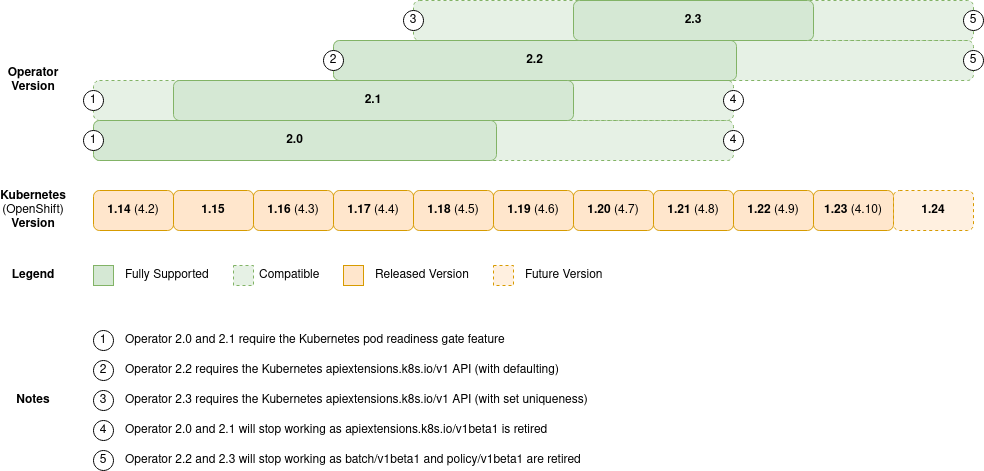
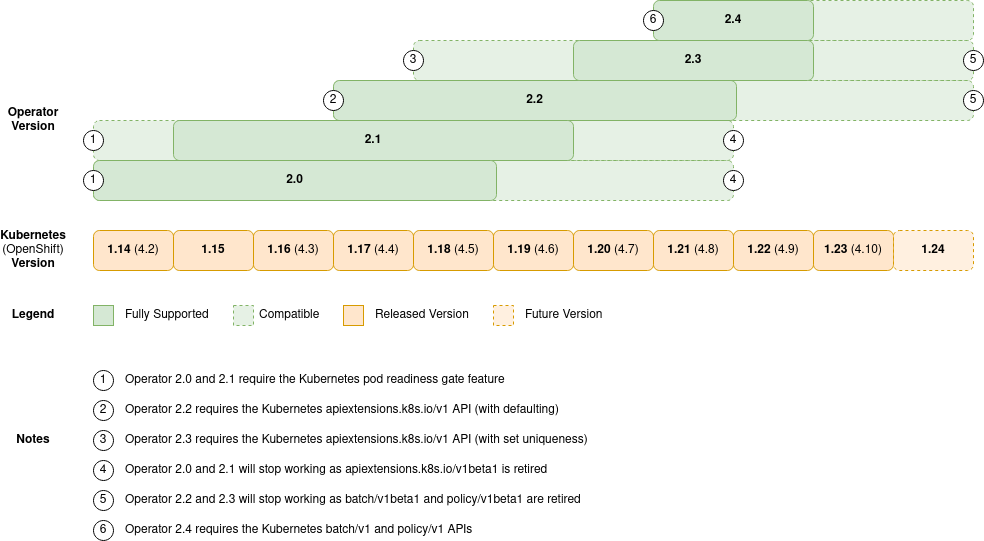
K8S-2233: Slay v1beta1
THis will stop working in 1.25 (like 1 release away), so we need to cull
off older, pre-1.21, versions.

diff --git a/pkg/cluster/backup.go b/pkg/cluster/backup.go
@@ -14,7 +14,6 @@ import (
 	"github.com/couchbase/couchbase-operator/pkg/util/k8sutil"
 
 	batchv1 "k8s.io/api/batch/v1"
-	batchv1beta1 "k8s.io/api/batch/v1beta1"
 	corev1 "k8s.io/api/core/v1"
 	"k8s.io/apimachinery/pkg/api/resource"
 	metav1 "k8s.io/apimachinery/pkg/apis/meta/v1"
@@ -39,10 +38,10 @@ type backupResources struct {
 	backup *couchbasev2.CouchbaseBackup
 
 	// fullCronJob deals with running and scheduling a full backup.
-	fullCronJob *batchv1beta1.CronJob
+	fullCronJob *batchv1.CronJob
 
 	// incrementalCronJob (optional) deals with running and schedling an incremental backup.
-	incrementalCronJob *batchv1beta1.CronJob
+	incrementalCronJob *batchv1.CronJob
 
 	// pvc deals with persisting the backup data.
 	pvc *corev1.PersistentVolumeClaim
@@ -192,12 +191,12 @@ func (c *Cluster) createBackupResource(resource backupResources) error {
 		}
 	}
 
-	if _, err := c.k8s.KubeClient.BatchV1beta1().CronJobs(c.cluster.Namespace).Create(context.Background(), resource.fullCronJob, metav1.CreateOptions{}); err != nil {
+	if _, err := c.k8s.KubeClient.BatchV1().CronJobs(c.cluster.Namespace).Create(context.Background(), resource.fullCronJob, metav1.CreateOptions{}); err != nil {
 		return err
 	}
 
 	if resource.incrementalCronJob != nil {
-		if _, err := c.k8s.KubeClient.BatchV1beta1().CronJobs(c.cluster.Namespace).Create(context.Background(), resource.incrementalCronJob, metav1.CreateOptions{}); err != nil {
+		if _, err := c.k8s.KubeClient.BatchV1().CronJobs(c.cluster.Namespace).Create(context.Background(), resource.incrementalCronJob, metav1.CreateOptions{}); err != nil {
 			return err
 		}
 	}
@@ -257,13 +256,13 @@ func (c *Cluster) updateBackupResource(requested backupResources, current *backu
 
 // updateBackupCronJob recreates jobs if they have been deleted, deletes them if they need
 // to be e.g. switching from incremental to full, or modifies the configuration.
-func (c *Cluster) updateBackupCronJob(notifier *backupUpdateNotifier, requested, current *batchv1beta1.CronJob) error {
+func (c *Cluster) updateBackupCronJob(notifier *backupUpdateNotifier, requested, current *batchv1.CronJob) error {
 	if requested == nil && current == nil {
 		return nil
 	}
 
 	if requested != nil && current == nil {
-		if _, err := c.k8s.KubeClient.BatchV1beta1().CronJobs(c.cluster.Namespace).Create(context.Background(), requested, metav1.CreateOptions{}); err != nil {
+		if _, err := c.k8s.KubeClient.BatchV1().CronJobs(c.cluster.Namespace).Create(context.Background(), requested, metav1.CreateOptions{}); err != nil {
 			return err
 		}
 
@@ -273,7 +272,7 @@ func (c *Cluster) updateBackupCronJob(notifier *backupUpdateNotifier, requested,
 	}
 
 	if requested == nil && current != nil {
-		if err := c.k8s.KubeClient.BatchV1beta1().CronJobs(c.cluster.Namespace).Delete(context.Background(), current.Name, metav1.DeleteOptions{}); err != nil {
+		if err := c.k8s.KubeClient.BatchV1().CronJobs(c.cluster.Namespace).Delete(context.Background(), current.Name, metav1.DeleteOptions{}); err != nil {
 			return err
 		}
 
@@ -282,13 +281,13 @@ func (c *Cluster) updateBackupCronJob(notifier *backupUpdateNotifier, requested,
 		return nil
 	}
 
-	requestedSpec := &batchv1beta1.CronJobSpec{}
+	requestedSpec := &batchv1.CronJobSpec{}
 
 	if err := json.Unmarshal([]byte(requested.Annotations[constants.CronjobSpecAnnotation]), requestedSpec); err != nil {
 		return err
 	}
 
-	currentSpec := &batchv1beta1.CronJobSpec{}
+	currentSpec := &batchv1.CronJobSpec{}
 
 	if err := json.Unmarshal([]byte(current.Annotations[constants.CronjobSpecAnnotation]), currentSpec); err != nil {
 		return err
@@ -302,7 +301,7 @@ func (c *Cluster) updateBackupCronJob(notifier *backupUpdateNotifier, requested,
 	resource.Annotations = requested.Annotations
 	resource.Spec = requested.Spec
 
-	if _, err := c.k8s.KubeClient.BatchV1beta1().CronJobs(c.cluster.Namespace).Update(context.Background(), resource, metav1.UpdateOptions{}); err != nil {
+	if _, err := c.k8s.KubeClient.BatchV1().CronJobs(c.cluster.Namespace).Update(context.Background(), resource, metav1.UpdateOptions{}); err != nil {
 		return err
 	}
 
@@ -402,13 +401,13 @@ func (c *Cluster) updateBackupPVC(notifier *backupUpdateNotifier, backup *couchb
 // use the shared informer to raise it for us (if we are online at the time).
 func (c *Cluster) deleteBackupResource(resource backupResources) error {
 	if resource.fullCronJob != nil {
-		if err := c.k8s.KubeClient.BatchV1beta1().CronJobs(c.cluster.Namespace).Delete(context.Background(), resource.fullCronJob.Name, metav1.DeleteOptions{}); err != nil {
+		if err := c.k8s.KubeClient.BatchV1().CronJobs(c.cluster.Namespace).Delete(context.Background(), resource.fullCronJob.Name, metav1.DeleteOptions{}); err != nil {
 			return err
 		}
 	}
 
 	if resource.incrementalCronJob != nil {
-		if err := c.k8s.KubeClient.BatchV1beta1().CronJobs(c.cluster.Namespace).Delete(context.Background(), resource.incrementalCronJob.Name, metav1.DeleteOptions{}); err != nil {
+		if err := c.k8s.KubeClient.BatchV1().CronJobs(c.cluster.Namespace).Delete(context.Background(), resource.incrementalCronJob.Name, metav1.DeleteOptions{}); err != nil {
 			return err
 		}
 	}
@@ -495,7 +494,7 @@ func applyTLSConfiguration(cluster *couchbasev2.CouchbaseCluster, job *batchv1.J
 }
 
 // generateBackupCronjob generates a backup cronjob taking into account the backup strategy and the cbbackupmgr action.
-func (c *Cluster) generateBackupCronjob(backup *couchbasev2.CouchbaseBackup, action CBBackupmgrAction) (*batchv1beta1.CronJob, error) {
+func (c *Cluster) generateBackupCronjob(backup *couchbasev2.CouchbaseBackup, action CBBackupmgrAction) (*batchv1.CronJob, error) {
 	var schedule string
 
 	var container corev1.Container
@@ -518,7 +517,7 @@ func (c *Cluster) generateBackupCronjob(backup *couchbasev2.CouchbaseBackup, act
 	labels := k8sutil.LabelsForCluster(c.cluster)
 	labels[constants.LabelBackup] = backup.Name
 
-	cronjob := &batchv1beta1.CronJob{
+	cronjob := &batchv1.CronJob{
 		ObjectMeta: metav1.ObjectMeta{
 			Name:   backup.Name + "-" + string(action),
 			Labels: labels,
@@ -526,12 +525,12 @@ func (c *Cluster) generateBackupCronjob(backup *couchbasev2.CouchbaseBackup, act
 				c.cluster.AsOwner(),
 			},
 		},
-		Spec: batchv1beta1.CronJobSpec{
+		Spec: batchv1.CronJobSpec{
 			Schedule:                   schedule,
 			SuccessfulJobsHistoryLimit: &backup.Spec.SuccessfulJobsHistoryLimit,
 			FailedJobsHistoryLimit:     &backup.Spec.FailedJobsHistoryLimit,
-			ConcurrencyPolicy:          batchv1beta1.ForbidConcurrent,
-			JobTemplate: batchv1beta1.JobTemplateSpec{
+			ConcurrencyPolicy:          batchv1.ForbidConcurrent,
+			JobTemplate: batchv1.JobTemplateSpec{
 				Spec: batchv1.JobSpec{
 					BackoffLimit: &backup.Spec.BackoffLimit,
 					Template: corev1.PodTemplateSpec{
@@ -920,7 +919,7 @@ func (c *Cluster) applyObjEndpointCertToJob(job *batchv1.Job) {
 	}
 }
 
-func (c *Cluster) applyObjEndpointCertToCronJob(cronjob *batchv1beta1.CronJob) {
+func (c *Cluster) applyObjEndpointCertToCronJob(cronjob *batchv1.CronJob) {
 	if c.cluster.Spec.Backup.ObjectEndpoint == nil {
 		return
 	}

diff --git a/pkg/client/cache.go b/pkg/client/cache.go
@@ -10,9 +10,8 @@ import (
 	couchbaseclientv2 "github.com/couchbase/couchbase-operator/pkg/generated/clientset/versioned"
 	"github.com/couchbase/couchbase-operator/pkg/util/retryutil"
 	batchv1 "k8s.io/api/batch/v1"
-	batchv1beta1 "k8s.io/api/batch/v1beta1"
 	corev1 "k8s.io/api/core/v1"
-	policyv1beta1 "k8s.io/api/policy/v1beta1"
+	policyv1 "k8s.io/api/policy/v1"
 	metav1 "k8s.io/apimachinery/pkg/apis/meta/v1"
 	"k8s.io/apimachinery/pkg/labels"
 	"k8s.io/apimachinery/pkg/runtime"
@@ -284,7 +283,7 @@ type PodDisruptionBudgetCache struct {
 
 // newPodDisruptionBudgetCache creates a new synchronized cache for PodDisruptionBudget resources.
 func newPodDisruptionBudgetCache(ctx context.Context, client kubernetes.Interface, namespace string, selector fmt.Stringer) (*PodDisruptionBudgetCache, error) {
-	resourceCache, err := newResourceCache(ctx, client.PolicyV1beta1().RESTClient(), &policyv1beta1.PodDisruptionBudget{}, selector, "poddisruptionbudgets", namespace)
+	resourceCache, err := newResourceCache(ctx, client.PolicyV1().RESTClient(), &policyv1.PodDisruptionBudget{}, selector, "poddisruptionbudgets", namespace)
 	if err != nil {
 		return nil, err
 	}
@@ -296,7 +295,7 @@ func newPodDisruptionBudgetCache(ctx context.Context, client kubernetes.Interfac
 }
 
 // get returns the requested poddisruptionbudget based on name.
-func (c *PodDisruptionBudgetCache) Get(name string) (*policyv1beta1.PodDisruptionBudget, bool) {
+func (c *PodDisruptionBudgetCache) Get(name string) (*policyv1.PodDisruptionBudget, bool) {
 	key := c.namespace + "/" + name
 
 	// Cannot error
@@ -305,14 +304,14 @@ func (c *PodDisruptionBudgetCache) Get(name string) (*policyv1beta1.PodDisruptio
 		return nil, exists
 	}
 
-	return obj.(*policyv1beta1.PodDisruptionBudget), true
+	return obj.(*policyv1.PodDisruptionBudget), true
 }
 
 // list returns all poddisruptionbudgets.
-func (c *PodDisruptionBudgetCache) List() (poddisruptionbudgets []*policyv1beta1.PodDisruptionBudget) {
+func (c *PodDisruptionBudgetCache) List() (poddisruptionbudgets []*policyv1.PodDisruptionBudget) {
 	objs := c.resourceCache.informer.GetStore().List()
 	for _, obj := range objs {
-		poddisruptionbudgets = append(poddisruptionbudgets, obj.(*policyv1beta1.PodDisruptionBudget))
+		poddisruptionbudgets = append(poddisruptionbudgets, obj.(*policyv1.PodDisruptionBudget))
 	}
 
 	return
@@ -730,7 +729,7 @@ type CronJobCache struct {
 
 // newJobCache creates a new synchronized cache for Job resources.
 func newCronJobCache(ctx context.Context, client kubernetes.Interface, namespace string, selector fmt.Stringer) (*CronJobCache, error) {
-	resourceCache, err := newResourceCache(ctx, client.BatchV1beta1().RESTClient(), &batchv1beta1.CronJob{}, selector, "cronjobs", namespace)
+	resourceCache, err := newResourceCache(ctx, client.BatchV1().RESTClient(), &batchv1.CronJob{}, selector, "cronjobs", namespace)
 	if err != nil {
 		return nil, err
 	}
@@ -742,7 +741,7 @@ func newCronJobCache(ctx context.Context, client kubernetes.Interface, namespace
 }
 
 // get returns the requested job based on name.
-func (c *CronJobCache) Get(name string) (*batchv1beta1.CronJob, bool) {
+func (c *CronJobCache) Get(name string) (*batchv1.CronJob, bool) {
 	key := c.namespace + "/" + name
 
 	// Cannot error
@@ -751,14 +750,14 @@ func (c *CronJobCache) Get(name string) (*batchv1beta1.CronJob, bool) {
 		return nil, exists
 	}
 
-	return obj.(*batchv1beta1.CronJob), true
+	return obj.(*batchv1.CronJob), true
 }
 
 // list returns all jobs.
-func (c *CronJobCache) List() (resources []*batchv1beta1.CronJob) {
+func (c *CronJobCache) List() (resources []*batchv1.CronJob) {
 	objs := c.resourceCache.informer.GetStore().List()
 	for _, obj := range objs {
-		resources = append(resources, obj.(*batchv1beta1.CronJob))
+		resources = append(resources, obj.(*batchv1.CronJob))
 	}
 
 	return

diff --git a/pkg/util/k8sutil/policy.go b/pkg/util/k8sutil/policy.go
@@ -8,7 +8,7 @@ import (
 	"github.com/couchbase/couchbase-operator/pkg/client"
 	"github.com/couchbase/couchbase-operator/pkg/errors"
 
-	policyv1beta1 "k8s.io/api/policy/v1beta1"
+	policyv1 "k8s.io/api/policy/v1"
 	metav1 "k8s.io/apimachinery/pkg/apis/meta/v1"
 	"k8s.io/apimachinery/pkg/util/intstr"
 )
@@ -17,12 +17,12 @@ import (
 func ReconcilePDB(client *client.Client, cluster *couchbasev2.CouchbaseCluster) error {
 	name := cluster.Name + "-pdb"
 
-	required := &policyv1beta1.PodDisruptionBudget{
+	required := &policyv1.PodDisruptionBudget{
 		ObjectMeta: metav1.ObjectMeta{
 			Name:   name,
 			Labels: LabelsForCluster(cluster),
 		},
-		Spec: policyv1beta1.PodDisruptionBudgetSpec{
+		Spec: policyv1.PodDisruptionBudgetSpec{
 			Selector: &metav1.LabelSelector{
 				MatchLabels: LabelsForCluster(cluster),
 			},
@@ -37,7 +37,7 @@ func ReconcilePDB(client *client.Client, cluster *couchbasev2.CouchbaseCluster) 
 	// Get any existing budgets, creating one if it doesn't exist.
 	actual, found := client.PodDisruptionBudgets.Get(name)
 	if !found {
-		if _, err := client.KubeClient.PolicyV1beta1().PodDisruptionBudgets(cluster.Namespace).Create(context.Background(), required, metav1.CreateOptions{}); err != nil {
+		if _, err := client.KubeClient.PolicyV1().PodDisruptionBudgets(cluster.Namespace).Create(context.Background(), required, metav1.CreateOptions{}); err != nil {
 			return errors.NewStackTracedError(err)
 		}
 
@@ -51,11 +51,11 @@ func ReconcilePDB(client *client.Client, cluster *couchbasev2.CouchbaseCluster) 
 	}
 
 	// Delete and recreate as the spec is immutable.
-	if err := client.KubeClient.PolicyV1beta1().PodDisruptionBudgets(cluster.Namespace).Delete(context.Background(), name, metav1.DeleteOptions{}); err != nil {
+	if err := client.KubeClient.PolicyV1().PodDisruptionBudgets(cluster.Namespace).Delete(context.Background(), name, metav1.DeleteOptions{}); err != nil {
 		return errors.NewStackTracedError(err)
 	}
 
-	if _, err := client.KubeClient.PolicyV1beta1().PodDisruptionBudgets(cluster.Namespace).Create(context.Background(), required, metav1.CreateOptions{}); err != nil {
+	if _, err := client.KubeClient.PolicyV1().PodDisruptionBudgets(cluster.Namespace).Create(context.Background(), required, metav1.CreateOptions{}); err != nil {
 		return errors.NewStackTracedError(err)
 	}
 

diff --git a/test/e2e/e2eutil/wait_util.go b/test/e2e/e2eutil/wait_util.go
@@ -320,7 +320,7 @@ func mustWaitForResourceEventFromNow(t *testing.T, k8s *types.Cluster, resource 
 func WaitForBackup(k8s *types.Cluster, backup *couchbasev2.CouchbaseBackup, timeout time.Duration) error {
 	callback := func() error {
 		// TODO: you can check more than presence, the schedule for example can allow you to wait for updates...
-		if _, err := k8s.KubeClient.BatchV1beta1().CronJobs(backup.Namespace).Get(context.Background(), backup.Name+"-full", metav1.GetOptions{}); err != nil {
+		if _, err := k8s.KubeClient.BatchV1().CronJobs(backup.Namespace).Get(context.Background(), backup.Name+"-full", metav1.GetOptions{}); err != nil {
 			return err
 		}
 
@@ -329,7 +329,7 @@ func WaitForBackup(k8s *types.Cluster, backup *couchbasev2.CouchbaseBackup, time
 		}
 
 		// TODO: you can check more than presence, the schedule for example can allow you to wait for updates...
-		if _, err := k8s.KubeClient.BatchV1beta1().CronJobs(backup.Namespace).Get(context.Background(), backup.Name+"-incremental", metav1.GetOptions{}); err != nil {
+		if _, err := k8s.KubeClient.BatchV1().CronJobs(backup.Namespace).Get(context.Background(), backup.Name+"-incremental", metav1.GetOptions{}); err != nil {
 			return err
 		}
 
@@ -348,7 +348,7 @@ func MustWaitForBackup(t *testing.T, k8s *types.Cluster, backup *couchbasev2.Cou
 func WaitForCronjob(k8s *types.Cluster, couchbase *couchbasev2.CouchbaseCluster, name string, timeout time.Duration) error {
 	return retryutil.RetryFor(timeout, func() error {
 		listOptions := metav1.ListOptions{}
-		cronjobs, err := k8s.KubeClient.BatchV1beta1().CronJobs(couchbase.Namespace).List(context.Background(), listOptions)
+		cronjobs, err := k8s.KubeClient.BatchV1().CronJobs(couchbase.Namespace).List(context.Background(), listOptions)
 		if err != nil {
 			return err
 		}

diff --git a/pkg/info/command/collect.go b/pkg/info/command/collect.go
@@ -18,9 +18,8 @@ import (
 
 	appsv1 "k8s.io/api/apps/v1"
 	batchv1 "k8s.io/api/batch/v1"
-	batchv1beta1 "k8s.io/api/batch/v1beta1"
 	corev1 "k8s.io/api/core/v1"
-	policyv1beta1 "k8s.io/api/policy/v1beta1"
+	policyv1 "k8s.io/api/policy/v1"
 	rbacv1 "k8s.io/api/rbac/v1"
 	apiextensionsv1 "k8s.io/apiextensions-apiserver/pkg/apis/apiextensions/v1"
 	"k8s.io/apimachinery/pkg/api/errors"
@@ -61,9 +60,9 @@ var (
 		{Resource: &rbacv1.Role{}, Scope: resource.ScopeAll, LogLevel: resource.LogLevelSensitive},
 		{Resource: &rbacv1.RoleBinding{}, Scope: resource.ScopeAll, LogLevel: resource.LogLevelSensitive},
 		{Resource: &batchv1.Job{}, Scope: resource.ScopeCluster, LogLevel: resource.LogLevelRequired},
-		{Resource: &batchv1beta1.CronJob{}, Scope: resource.ScopeCluster, LogLevel: resource.LogLevelRequired},
+		{Resource: &batchv1.CronJob{}, Scope: resource.ScopeCluster, LogLevel: resource.LogLevelRequired},
 		{Resource: &apiextensionsv1.CustomResourceDefinition{}, Scope: resource.ScopeCouchbaseGroup, LogLevel: resource.LogLevelRequired},
-		{Resource: &policyv1beta1.PodDisruptionBudget{}, Scope: resource.ScopeCluster, LogLevel: resource.LogLevelRequired},
+		{Resource: &policyv1.PodDisruptionBudget{}, Scope: resource.ScopeCluster, LogLevel: resource.LogLevelRequired},
 	}
 
 	// Define all implied sub-resources we can collect information for.

diff --git a/test/e2e/framework/framework.go b/test/e2e/framework/framework.go
@@ -34,7 +34,6 @@ import (
 
 	appsv1 "k8s.io/api/apps/v1"
 	v1 "k8s.io/api/core/v1"
-	v1beta1 "k8s.io/api/extensions/v1beta1"
 	apiextensionsv1 "k8s.io/apiextensions-apiserver/pkg/apis/apiextensions/v1"
 	"k8s.io/apiextensions-apiserver/pkg/client/clientset/clientset"
 	"k8s.io/apimachinery/pkg/api/resource"
@@ -59,10 +58,6 @@ func Init() error {
 	fmt.Println("couchbase-operator-certification", version.WithBuildNumberAndRevision())
 
 	// Register CouchbaseCluster and CustomResourceDefinition types with the main library.
-	if err := v1beta1.SchemeBuilder.AddToScheme(scheme.Scheme); err != nil {
-		return err
-	}
-
 	if err := couchbasev2.AddToScheme(scheme.Scheme); err != nil {
 		return err
 	}

diff --git a/pkg/config/util.go b/pkg/config/util.go
@@ -305,8 +305,8 @@ func checkAPIVersions(flags *genericclioptions.ConfigFlags) error {
 	}
 
 	// Note: these should be updated every release.
-	technicalLowerBound := &version.Info{Major: "1", Minor: "18", GitVersion: "v1.18.0"}
-	supportedLowerBound := &version.Info{Major: "1", Minor: "18", GitVersion: "v1.18.0"}
+	technicalLowerBound := &version.Info{Major: "1", Minor: "21", GitVersion: "v1.21.0"}
+	supportedLowerBound := &version.Info{Major: "1", Minor: "21", GitVersion: "v1.21.0"}
 	supportedUpperBound := &version.Info{Major: "1", Minor: "23", GitVersion: "v1.23.0"}
 
 	// You shall not pass!!  AKA don't waste our time.

diff --git a/test/e2e/e2eutil/api_util.go b/test/e2e/e2eutil/api_util.go
@@ -156,7 +156,7 @@ func MustRollingUpgrade(t *testing.T, k8s *types.Cluster, timeout time.Duration)
 
 		// Wait for PDBs to allow eviction before scheduling the next death.
 		callback := func() error {
-			pdbs, err := k8s.KubeClient.PolicyV1beta1().PodDisruptionBudgets(k8s.Namespace).List(context.Background(), metav1.ListOptions{})
+			pdbs, err := k8s.KubeClient.PolicyV1().PodDisruptionBudgets(k8s.Namespace).List(context.Background(), metav1.ListOptions{})
 			if err != nil {
 				return err
 			}

diff --git a/test/e2e/supportability_test.go b/test/e2e/supportability_test.go
@@ -654,7 +654,7 @@ func mustGetFileList(t *testing.T, k8s *types.Cluster, namespace, archive, opera
 		e2eutil.Die(t, err)
 	}
 
-	pdbs, err := k8s.KubeClient.PolicyV1beta1().PodDisruptionBudgets(namespace).List(context.Background(), metav1.ListOptions{LabelSelector: selector})
+	pdbs, err := k8s.KubeClient.PolicyV1().PodDisruptionBudgets(namespace).List(context.Background(), metav1.ListOptions{LabelSelector: selector})
 	if err != nil {
 		e2eutil.Die(t, err)
 	}
